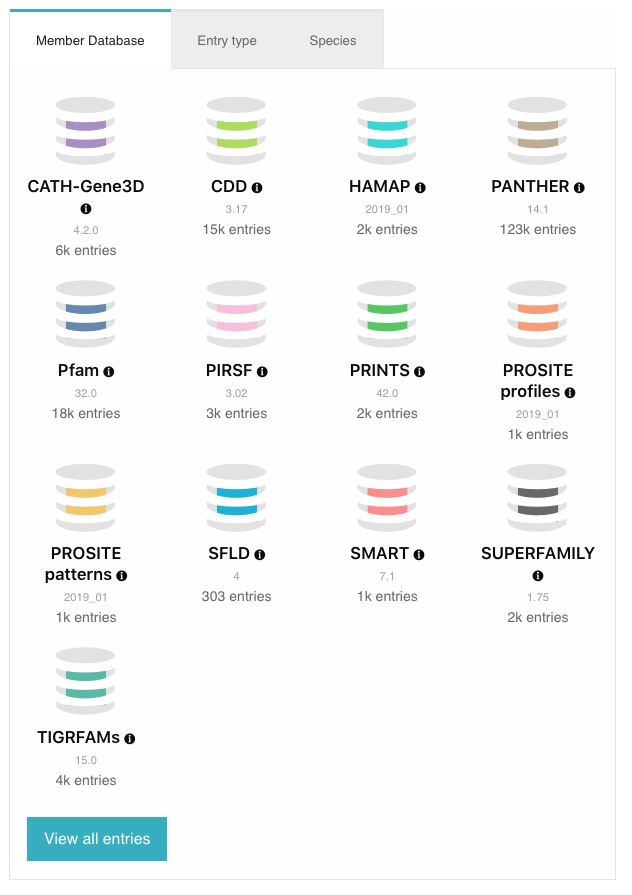
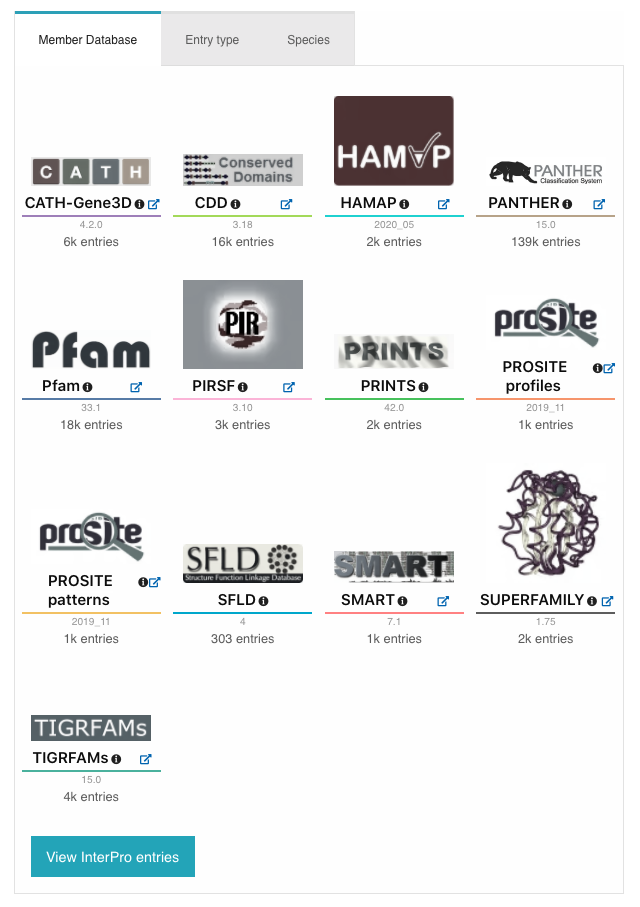
updates for interpro 83.0

diff --git a/docs/browse.rst b/docs/browse.rst
@@ -88,11 +88,21 @@ protein sequences and what, if any, combinations arise with other entries.
 Taxonomy 
 ========
 List of species this entry is matching, based on data from `UniProt taxonomy 
-<https://www.uniprot.org/help/taxonomy>`_. The first section displays the "**Key species**", these are 12 
-model organisms commonly used in scientific research: *Oryza sativa subsp. japonica, Arabidopsis thaliana, 
-Homo sapiens, Danio rerio, Mus musculus, Drosophila melanogaster, Caenorhabditis elegans, Saccharomyces 
-cerevisiae, Schizosaccharomyces pombe, Escherichia coli, Escherichia virus T4, Halobacterium salinarum*.
-The second section shows the list of species the proteins matching this entry are found in.
+<https://www.uniprot.org/help/taxonomy>`_. For each organism, the taxonomy identifier and protein count information are provided. The ACTIONS column offers the possibility to:
+
+- View all the protein matches in the :ref:`proteins` tab
+- Download a FASTA file of the protein matches
+- View the taxonomy information in the :ref:`taxonomy_page`
+
+The information can be displayed in two different ways:
+
+- By "**Key species**", these are 12 model organisms commonly used in scientific research: *Oryza sativa subsp. japonica, Arabidopsis thaliana, Homo sapiens, Danio rerio, Mus musculus, Drosophila melanogaster, Caenorhabditis elegans, Saccharomyces cerevisiae, Schizosaccharomyces pombe, Escherichia coli, Escherichia virus T4, Halobacterium salinarum*.
+- List of all the species the proteins matching this entry are found in.
+
+The type of data displayed can be changed using the website settings, accessible through the InterPro banner 
+:ref:`settings`.
+
+
 
 .. _proteomes:
 
@@ -102,6 +112,8 @@ List of proteomes whose members are represented by proteins matching this entry.
 A proteome represents a set of proteins whose genomes have been fully sequenced.
 A given taxonomy node may have one or more proteomes, for example, to reflect different assemblies of a 
 genome. Proteome data is imported from `UniProt proteomes <https://www.uniprot.org/help/proteome>`_. 
+For each proteome, the same set of actions are available than the ones in :ref:`taxonomy`, the taxonomy 
+information being replaced by proteome information in the :ref:`proteome_page`.
 
 .. _structures:
 
@@ -239,16 +251,27 @@ The protein page provides the protein accession, the short name given to the pro
 of the protein sequence, species in which the protein is found, the proteome it belongs to and a brief 
 description of the protein's function where known. All the :ref:`InterPro family entries <entry_types>` 
 this protein is matching are listed under "**Protein family membership**". An external link to the protein 
-entry in `UniprotKB <https://www.uniprot.org/>`_ is provided on the right hand side of the page.
+entry in `UniprotKB <https://www.uniprot.org/>`_, as well as the export of the matches in TSV format and the possibility 
+to perform a `HMMER search <https://www.ebi.ac.uk/Tools/hmmer/search/phmmer>`_ are provided on the right hand side of the page.
 
 .. figure:: images/browse_pages/protein_entry_page.png
     :alt: Protein entry page 
     :width: 800px
 
-    Protein entry page for D3ZTE0.
+    Protein entry page for O00167.
 
 The protein entry page also displays the :doc:`protein sequence viewer </protein_viewer>` to show the 
 associated domains, sites etc.
+
+When available, different isoforms of the protein can be selected to compare their InterPro matches 
+with the consensus protein sequence. When an isoform is selected, a new :doc:`protein sequence viewer </protein_viewer>` 
+corresponding to the selection is displayed and the url is update to reflect the change.
+The isoform matches can also be viewed side by side with the consensus protein sequence by clicking on the split 
+icon |split| after selecting an isoform.
+
+.. |split| image:: images/browse_pages/split_icon.png
+  :alt: Split icon
+  :width: 15pt
 
 This page includes up to four tabs: :ref:`entries`, :ref:`structures`, :ref:`sequence` 
 and :ref:`similar_proteins`.
@@ -263,9 +286,9 @@ List of InterPro entries that include this entity.
 
 Sequence
 ========
-This tab shows the protein FASTA sequence. The sequence can be used to perform two types of search, 
-available on the right side of the screen: `InterProScan search 
-<https://www.ebi.ac.uk/interpro/search/sequence/>`_ or 
+This tab shows the protein FASTA sequence. The full sequence or part of the sequence (by selecting the region 
+of interest) can be used to perform two types of search, available on the right side of the screen: 
+`InterProScan search <https://www.ebi.ac.uk/interpro/search/sequence/>`_ or 
 `HMMER search <https://www.ebi.ac.uk/Tools/hmmer/search/phmmer>`_, which redirects to the corresponding 
 pages.
 

diff --git a/docs/searchways.rst b/docs/searchways.rst
@@ -48,7 +48,10 @@ Sequence search
 
 A sequence can be submitted in FASTA format in the dedicated text area or by uploading a fasta file. 
 The “**Advanced options**” allows users to select the InterPro member databases of interest to search 
-against (by default they are all selected). The sequence search is performed using the :doc:`InterProScan software </interproscan>`.
+against (by default they are all selected). The sequence search is performed using the 
+:doc:`InterProScan software </interproscan>`. While the sequence search is running, the user can continue 
+to navigate through the website, other browser tabs or applications and will get a pop-up notification 
+when the job has been completed (this requires the browser notifications to be allowed).
 
 .. figure:: images/search/seq.png
   :alt: Sequence search component
@@ -64,7 +67,15 @@ the **Your InterProScan Searches** section. This page displays the protein seque
 performed in the last seven days, with the most recent one being displayed at the top. The status 
 column gives an indication of whether or not the search has completed (green tick symbol / searching). 
 Clicking on the text in the results column opens a page where the results are summarised in a 
-protein sequence viewer (more detailed information is provided for the :doc:`/protein_viewer`)
+protein sequence viewer (more detailed information is provided for the :doc:`/protein_viewer`).
+
+Previously ran searches can be imported either by typing the job ID in the **Import** text box, for searches 
+performed in the last seven days on our servers, or by uploading an :doc:`InterProScan </interproscan>` output 
+file in JSON format, the job is added to the Results table. If the second option is choosen and InterProScan was 
+run using nucleotide sequences, a job result is created for each Open Reading Frame (ORF) and ORFs from the same 
+nucleotide sequence are grouped accordingly. 
+This import feature can be used by users requiring to have InterProScan graphic output formats for publications 
+and other uses.
 
 .. figure:: images/search/InterPro_rtd_list_jobs.png
   :alt: Sequence search result
@@ -80,6 +91,9 @@ protein sequence viewer (more detailed information is provided for the :doc:`/pr
 
 On the search results page, some general information on the submitted sequence is provided, 
 followed by the predicted InterPro protein family membership when available ([1] in the figure above).
+The search can be saved by clicking on the **Save in Browser** button. The status will be changed to "**Imported file**".
+This means that the results will be available behind the usual seven days limit on the browser and machine the save 
+has been done, and will only be deleted if the user deletes the job by clicking on the bin icon.
 
 The sequence submitted is shown in its full length at the top of the protein sequence viewer (grey bar) [2]. 
 The purple/grey bar below indicates the predicted hydrophobicity of the sequence residues [3]. 

diff --git a/docs/homepage.rst b/docs/homepage.rst
@@ -79,7 +79,7 @@ The search section (section 2 in the figure above) shows a multifunctional searc
 which allows the selection of one of the five types of search supported by InterPro. More 
 details about searching are available on the :doc:`/searchways` section.
 
-.. .. figure:: images/homepage/homepage_search.png
+.. figure:: images/homepage/homepage_search.png
 ..   :alt: Homepage search component
 
 .. _Data:
@@ -101,7 +101,7 @@ Member databases
 
 This section shows icons for the :doc:`/databases`, along with information about the version of the member 
 database and an estimate of the number of signatures from that resource which are in the current InterPro 
-release. Each of the member database icons links to the :ref:`<browse_feature>` feature showing data 
+release. Each of the member database icons links to the :ref:`browse feature<browse_feature>` showing data 
 filtered to match the selected member database.
 
 |
@@ -171,11 +171,6 @@ show the number of proteins, domain architectures, taxa, structures and member
 databases matching the entry. Each of the icons is clickable and provides a shortcut 
 to the corresponding section of the :ref:`entry_page`.
 
-|
-|
-|
-|
-|
 |
 |
 |

diff --git a/docs/training.rst b/docs/training.rst
@@ -2,6 +2,13 @@
 Upcoming courses
 #################################
 
+
+If you would like us to train employees/students from your company/institution, `contact us <https://www.ebi.ac.uk/support/interpro>`_.
+
+#################################
+Previous courses
+#################################
+
 ****************
 Structural bioinformatics course (virtual)
 ****************
@@ -10,3 +17,12 @@ Structural bioinformatics course (virtual)
  | **Venue**:  Virtual - EMBL-EBI
  | **Application deadline**:  Friday 18 September 2020
  | `Programme details <https://www.ebi.ac.uk/training/events/2020/structural-bioinformatics-virtual>`_
+
+****************
+Bioinformatics Resources for Protein Biology
+****************
+
+ | **Date**:  Tuesday 10 - Thursday 12 March 2020
+ | **Venue**:  European Bioinformatics Institute (EMBL-EBI) - Training Room 1 - Wellcome Genome Campus, Hinxton, Cambridge,  CB10 1SD, United Kingdom
+ | **Application deadline**: Friday 07 February 2020
+ | `Programme details <https://www.ebi.ac.uk/training/events/2020/bioinformatics-resources-protein-biology-4>`_

diff --git a/docs/banner.rst b/docs/banner.rst
@@ -34,6 +34,8 @@ Quick search box
 The magnifying glass icon on the right side of the website banner can be clicked to show a text entry 
 component and performs a :ref:`quick_search`.
 
+.. _settings:
+
 Settings sidebar 
 ====================
 |hamburger| The hamburger icon on the right opens the settings sidebar.
